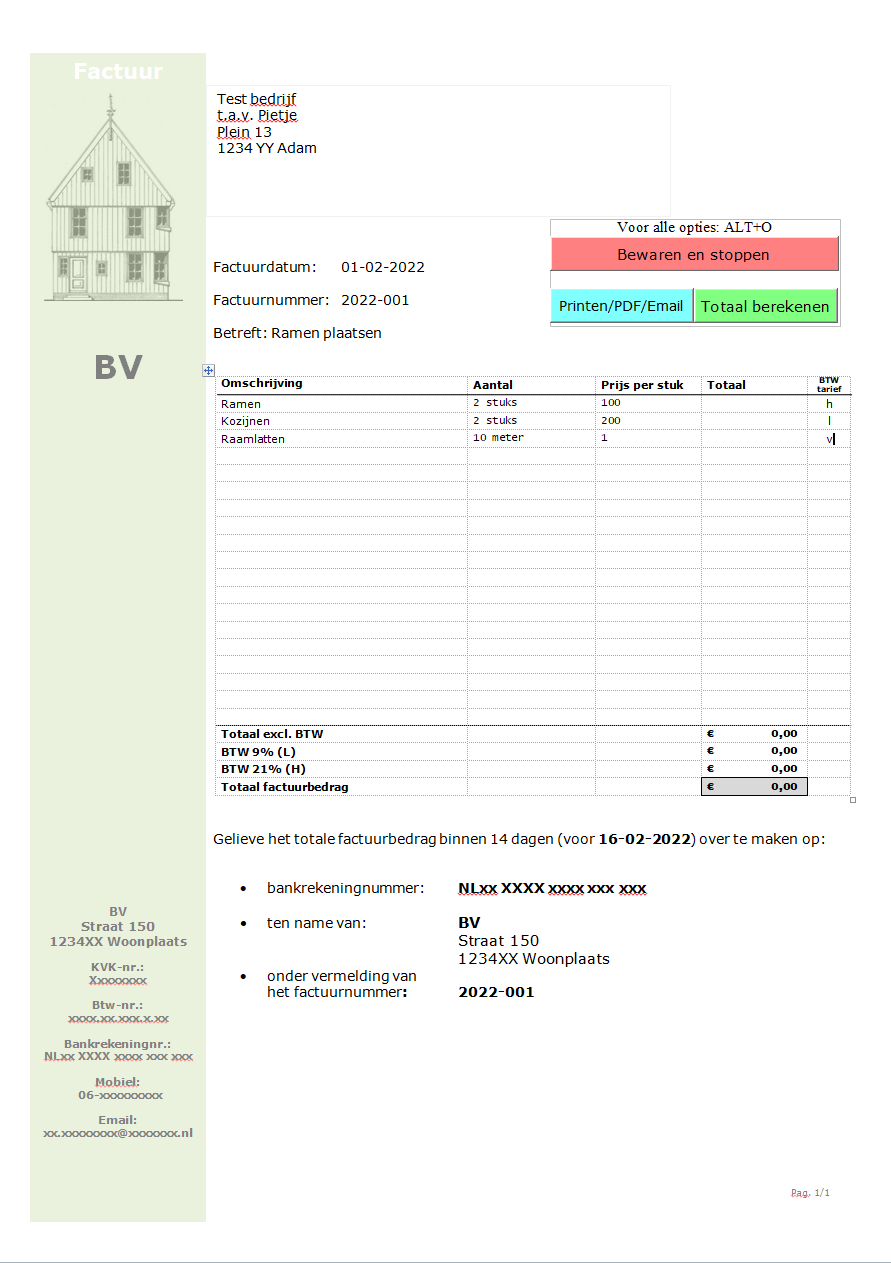
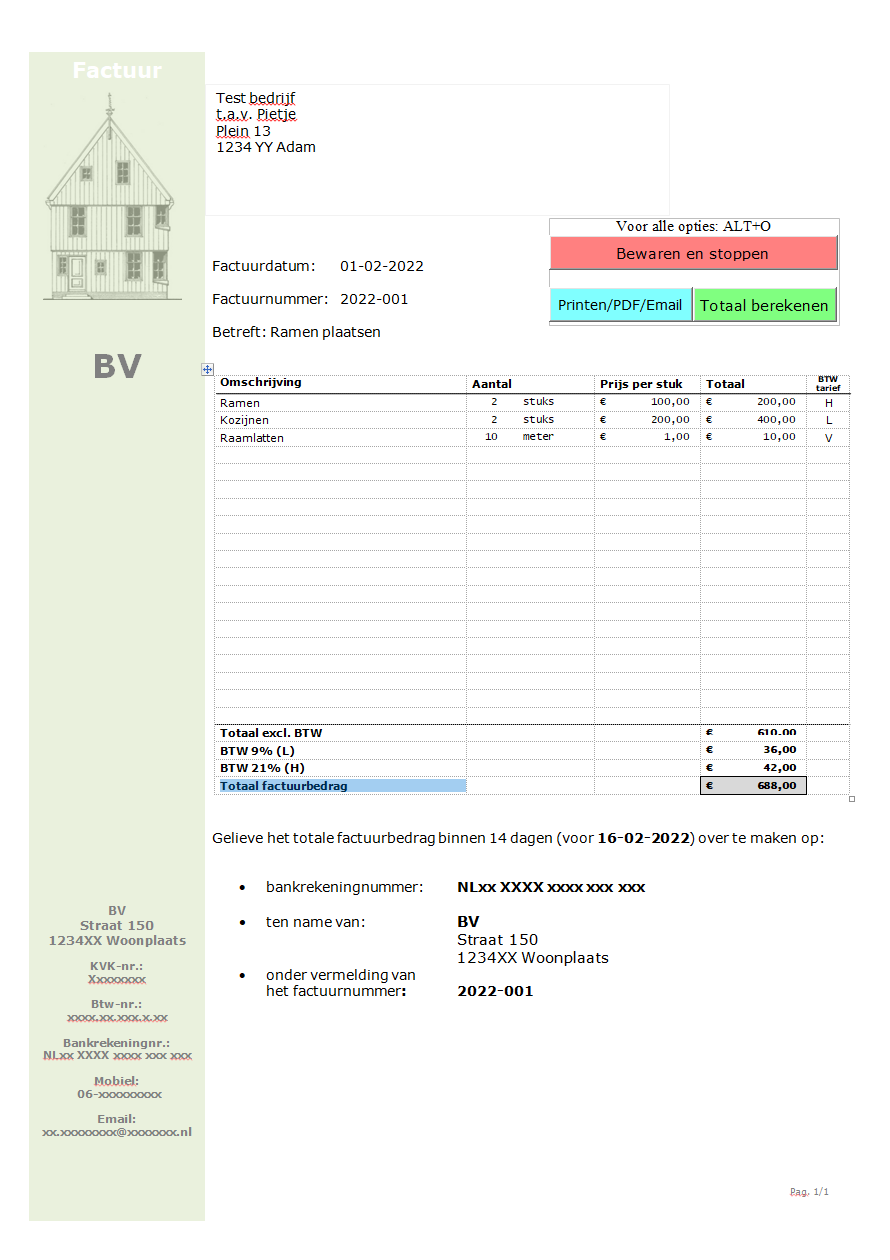
Add files via upload

diff --git a/page_06/page.html b/page_06/page.html
@@ -17,28 +17,29 @@
         <!--headers-->
         <header class="site-header">
             <h1 class="txt txt-center">Handleiding facturen en offertes</h1>
-            <h2 class="txt txt-center">Wat kan je er mee?</h2>
+            <h2 class="txt txt-center">Factuur maken (5)</h2>
         </header>
         
         <!--main-->
         <main class="site-main">
             <p>
-                Je kunt met deze oplossing heel eenvoudig facturen of offertes maken die automatisch genummerd worden op basis van het jaar waarin ze verstuurd worden.
+                Als je een factuur helemaal klaar hebt en je wilt hem gaan versturen dan druk je op de blauwe knop 'Printen/PDF/Email'. Het volgende scherm verschijnt dan:
+            </p>
+            <div class="pictures">
+                <picture><img src="../media/printen.png" class="picture"></picture>
+            </div>
+            <p>
+                Zoals je ziet is de PDF van je factuur al aangemaakt. Je kunt er nog voor kiezen om de factuur op papier te printen om hem per post te versturen of voor je eigen administratie.
             </p>
             <p>
-                Het is mogelijk om geleverde diensten, producten en dergelijke met hoog, laag of verlegd BTW-tarief in te voeren. Je kunt daarna de totaal-bedragen laten berekenen.
-            </p>    
+                Na deze keuze komt er nog een scherm:
+            </p>
+            <div class="pictures">
+                <picture><img src="../media/email.png" class="picture"></picture>
+            </div>
             <p>
-                Enkele features:
-                <ul>
-                    <li>documenten worden automatisch in de juiste folder opgeslagen</li>
-                    <li>er zit een adresboekje in</li>
-                    <li>oude gegevens kunnen makkelijk uit andere facturen/offertes worden overgenomen</li>
-                    <li>je kunt facturen/offertes onder constuctie openen, ze krijgen dan nog geen factuur/offerte nummer (later kun je ze dan automatisch een nummer laten geven om ze in de administratie op te nemen) </li> 
-                    <li>er worden automatisch PDF-jes aangemaakt als je een document wilt printen</li>
-                    <li>je kunt facturen/offertes als conceptmail laten opslaan in MS Outlook (kun ze later zelf versturen)</li>
-                </ul>
-            </p>   
+                Kies voor 'Ja' als je de factuur per email wilt versturen. Er wordt dan een concept-email gemaakt in MS Outlook die je later kan bijwerken en versturen.
+            </p>
         </main>
         
         <!--navigatie-->

diff --git a/page_05/page.html b/page_05/page.html
@@ -17,30 +17,23 @@
         <!--headers-->
         <header class="site-header">
             <h1 class="txt txt-center">Handleiding facturen en offertes</h1>
-            <h2 class="txt txt-center">Wat kan je er mee?</h2>
+            <h2 class="txt txt-center">Factuur maken (4)</h2>
         </header>
         
         <!--main-->
         <main class="site-main">
             <p>
-                Je kunt met deze oplossing heel eenvoudig facturen of offertes maken die automatisch genummerd worden op basis van het jaar waarin ze verstuurd worden.
+                Hieronder zie je een voorbeeld van het invullen van een factuur. In de tabel staan 3 regels ingevuld (plaatje links). Als je op de groene knop 'Totaal berekenen' klikt worden alle totalen doorberekend en wordt de juiste opmaak doorgevoerd (plaatje rechts).
+            </p>  
+            <p>
+                In de laatste kolom van de tabel voer je de BTW tarief code in. 'H' voor hoog tarief (19%), 'L' voor laag tarief (9%) en 'V' voor verlegd tarief (0%, dit wordt gebruikt als je als onderaannemer je factuur naar een hoofdaannemer stuurt die dan de juiste BTW moet gaan afdragen.)
             </p>
-            <p>
-                Het is mogelijk om geleverde diensten, producten en dergelijke met hoog, laag of verlegd BTW-tarief in te voeren. Je kunt daarna de totaal-bedragen laten berekenen.
-            </p>    
-            <p>
-                Enkele features:
-                <ul>
-                    <li>documenten worden automatisch in de juiste folder opgeslagen</li>
-                    <li>er zit een adresboekje in</li>
-                    <li>oude gegevens kunnen makkelijk uit andere facturen/offertes worden overgenomen</li>
-                    <li>je kunt facturen/offertes onder constuctie openen, ze krijgen dan nog geen factuur/offerte nummer (later kun je ze dan automatisch een nummer laten geven om ze in de administratie op te nemen) </li> 
-                    <li>er worden automatisch PDF-jes aangemaakt als je een document wilt printen</li>
-                    <li>je kunt facturen/offertes als conceptmail laten opslaan in MS Outlook (kun ze later zelf versturen)</li>
-                </ul>
-            </p>   
+            <div class="pictures">
+                <picture><img src="../media/Factuur Ingevuld.png" class="picture"></picture>
+                <picture><img src="../media/Factuur Berekend.png" class="picture"></picture>
+            </div>
         </main>
-        
+                
         <!--navigatie-->
         <nav class="site-navigation">
             <ul class="nav-list">

diff --git a/page_07/page.html b/page_07/page.html
@@ -17,28 +17,26 @@
         <!--headers-->
         <header class="site-header">
             <h1 class="txt txt-center">Handleiding facturen en offertes</h1>
-            <h2 class="txt txt-center">Wat kan je er mee?</h2>
+            <h2 class="txt txt-center">Factuur maken (6)</h2>
         </header>
         
         <!--main-->
         <main class="site-main">
             <p>
-                Je kunt met deze oplossing heel eenvoudig facturen of offertes maken die automatisch genummerd worden op basis van het jaar waarin ze verstuurd worden.
+                Als je een factuur onder constructie wilt opnemen als een 'echte factuur' in je administratie dan open je deze factuur en druk je de toets-combinatie Alt+O in (dus de Alt-toets tegelijk met de O-toets). 
+                Je ziet dan dit scherm (het linker plaatje). Klik nu op de knop 'Maak een echte factuur aan' dan zie je dit scherm (het rechter plaatje).
             </p>
             <p>
-                Het is mogelijk om geleverde diensten, producten en dergelijke met hoog, laag of verlegd BTW-tarief in te voeren. Je kunt daarna de totaal-bedragen laten berekenen.
-            </p>    
+                
+            </p>
+            <div class="pictures">
+                <picture><img src="../media/opties 2.png" class="picture"></picture>
+                <picture><img src="../media/factuur OC echt maken.png" class="picture"></picture>
+                
+            </div>
             <p>
-                Enkele features:
-                <ul>
-                    <li>documenten worden automatisch in de juiste folder opgeslagen</li>
-                    <li>er zit een adresboekje in</li>
-                    <li>oude gegevens kunnen makkelijk uit andere facturen/offertes worden overgenomen</li>
-                    <li>je kunt facturen/offertes onder constuctie openen, ze krijgen dan nog geen factuur/offerte nummer (later kun je ze dan automatisch een nummer laten geven om ze in de administratie op te nemen) </li> 
-                    <li>er worden automatisch PDF-jes aangemaakt als je een document wilt printen</li>
-                    <li>je kunt facturen/offertes als conceptmail laten opslaan in MS Outlook (kun ze later zelf versturen)</li>
-                </ul>
-            </p>   
+                Pas de factuurdatum en/of het aantal betalingsdagen aan - als dat nodig is - en klik dan op 'Klaar'. Nu krijgt de 'onder consctructie' factuur een factuurnummer en wordt hij in de juiste folder bewaard.
+            </p>
         </main>
         
         <!--navigatie-->

diff --git a/page_03/page.html b/page_03/page.html
@@ -17,27 +17,25 @@
         <!--headers-->
         <header class="site-header">
             <h1 class="txt txt-center">Handleiding facturen en offertes</h1>
-            <h2 class="txt txt-center">Wat kan je er mee?</h2>
+            <h2 class="txt txt-center">Factuur maken (2)</h2>
         </header>
         
         <!--main-->
         <main class="site-main">
             <p>
-                Je kunt met deze oplossing heel eenvoudig facturen of offertes maken die automatisch genummerd worden op basis van het jaar waarin ze verstuurd worden.
+               Je kunt ook kiezen om een factuur aan te maken die niet direct een factuurdatum en factuurnummer krijgt. Dit is bijvoorbeeld handig als je nog niet weet wanneer je de factuur wilt versturen. Je kunt dan wel alvast de factuur voor bereiden.
             </p>
+            <div class="pictures">
+                <picture><img src="../media/Factuur OC Info invullen.png" class="picture"></picture>
+            </div>
             <p>
-                Het is mogelijk om geleverde diensten, producten en dergelijke met hoog, laag of verlegd BTW-tarief in te voeren. Je kunt daarna de totaal-bedragen laten berekenen.
+            Vul de juiste informatie in de vakjes. 
             </p>    
+            <div class="pictures">
+                <picture><img src="../media/Factuur OC Info ingevuld.png" class="picture"></picture>
+            </div>
             <p>
-                Enkele features:
-                <ul>
-                    <li>documenten worden automatisch in de juiste folder opgeslagen</li>
-                    <li>er zit een adresboekje in</li>
-                    <li>oude gegevens kunnen makkelijk uit andere facturen/offertes worden overgenomen</li>
-                    <li>je kunt facturen/offertes onder constuctie openen, ze krijgen dan nog geen factuur/offerte nummer (later kun je ze dan automatisch een nummer laten geven om ze in de administratie op te nemen) </li> 
-                    <li>er worden automatisch PDF-jes aangemaakt als je een document wilt printen</li>
-                    <li>je kunt facturen/offertes als conceptmail laten opslaan in MS Outlook (kun ze later zelf versturen)</li>
-                </ul>
+               Als je nu op de knop 'klaar' drukt dan wordt er een nieuwe factuur (dus zonder factuurdatum en factuurnummer) aangemaakt.
             </p>   
         </main>
         

diff --git a/page_04/page.html b/page_04/page.html
@@ -17,28 +17,19 @@
         <!--headers-->
         <header class="site-header">
             <h1 class="txt txt-center">Handleiding facturen en offertes</h1>
-            <h2 class="txt txt-center">Wat kan je er mee?</h2>
+            <h2 class="txt txt-center">Factuur maken (3)</h2>
         </header>
         
         <!--main-->
         <main class="site-main">
             <p>
-                Je kunt met deze oplossing heel eenvoudig facturen of offertes maken die automatisch genummerd worden op basis van het jaar waarin ze verstuurd worden.
-            </p>
-            <p>
-                Het is mogelijk om geleverde diensten, producten en dergelijke met hoog, laag of verlegd BTW-tarief in te voeren. Je kunt daarna de totaal-bedragen laten berekenen.
-            </p>    
-            <p>
-                Enkele features:
-                <ul>
-                    <li>documenten worden automatisch in de juiste folder opgeslagen</li>
-                    <li>er zit een adresboekje in</li>
-                    <li>oude gegevens kunnen makkelijk uit andere facturen/offertes worden overgenomen</li>
-                    <li>je kunt facturen/offertes onder constuctie openen, ze krijgen dan nog geen factuur/offerte nummer (later kun je ze dan automatisch een nummer laten geven om ze in de administratie op te nemen) </li> 
-                    <li>er worden automatisch PDF-jes aangemaakt als je een document wilt printen</li>
-                    <li>je kunt facturen/offertes als conceptmail laten opslaan in MS Outlook (kun ze later zelf versturen)</li>
-                </ul>
-            </p>   
+                Hieronder zie je het verschil tussen een factuur die al in de administratie is geregistreerd (plaatje links) en een factuur die 'onder constructie' is (plaatje rechts). Het gaat dan om de factuurdatum en het factuurnummer.
+                Verder werkt alles hetzelfde.
+            </p>  
+            <div class="pictures">
+                <picture><img src="../media/Factuur Ingevuld.png" class="picture"></picture>
+                <picture><img src="../media/Factuur OC Ingevuld.png" class="picture"></picture>
+            </div>
         </main>
         
         <!--navigatie-->

diff --git a/page_01/page.html b/page_01/page.html
@@ -33,10 +33,10 @@
                 <ul>
                     <li>documenten worden automatisch in de juiste folder opgeslagen</li>
                     <li>er zit een adresboekje in</li>
-                    <li>oude gegevens kunnen makkelijk uit andere facturen/offertes worden overgenomen</li>
-                    <li>je kunt facturen/offertes onder constuctie openen, ze krijgen dan nog geen factuur/offerte nummer (later kun je ze dan automatisch een nummer laten geven om ze in de administratie op te nemen) </li> 
-                    <li>er worden automatisch PDF-jes aangemaakt als je een document wilt printen</li>
-                    <li>je kunt facturen/offertes als conceptmail laten opslaan in MS Outlook (kun ze later zelf versturen)</li>
+                    <li>makkelijk uit andere facturen/offertes gegevens overnemen</li>
+                    <li>facturen/offertes onder constuctie aanmaken, ze krijgen dan nog geen factuur/offerte nummer (later kun je ze dan automatisch een nummer laten geven om ze in de administratie op te nemen) </li> 
+                    <li>automatisch PDF-jes aanmaken bij printen</li>
+                    <li>facturen/offertes als conceptmail laten opslaan in MS Outlook (later versturen)</li>
                 </ul>
             </p>   
         </main>

diff --git a/page_02/page.html b/page_02/page.html
@@ -17,7 +17,7 @@
         <!--headers-->
         <header class="site-header">
             <h1 class="txt txt-center">Handleiding facturen en offertes</h1>
-            <h2 class="txt txt-center">Aanmaken factuur</h2>
+            <h2 class="txt txt-center">Factuur maken (1)</h2>
         </header>
         
         <!--main-->
@@ -33,10 +33,13 @@
                 <picture><img src="../media/Factuur Info invullen.png" class="picture"></picture>
             </div>
             <p>
-            
+            Vul de juiste informatie in de vakjes. 
             </p>    
+            <div class="pictures">
+                <picture><img src="../media/Factuur Info ingevuld.png" class="picture"></picture>
+            </div>
             <p>
-               
+               Als je nu op de knop 'klaar' drukt dan wordt er een nieuwe factuur (dus met factuurdatum en factuurnummer) aangemaakt.
             </p>   
         </main>
         

diff --git a/styles-mobile.css b/styles-mobile.css
@@ -36,6 +36,10 @@
         padding: 0;
     }
 
+    .txtr {
+        padding-left: 10px;
+    }
+
     .notmobile {
         display: none;
     }
